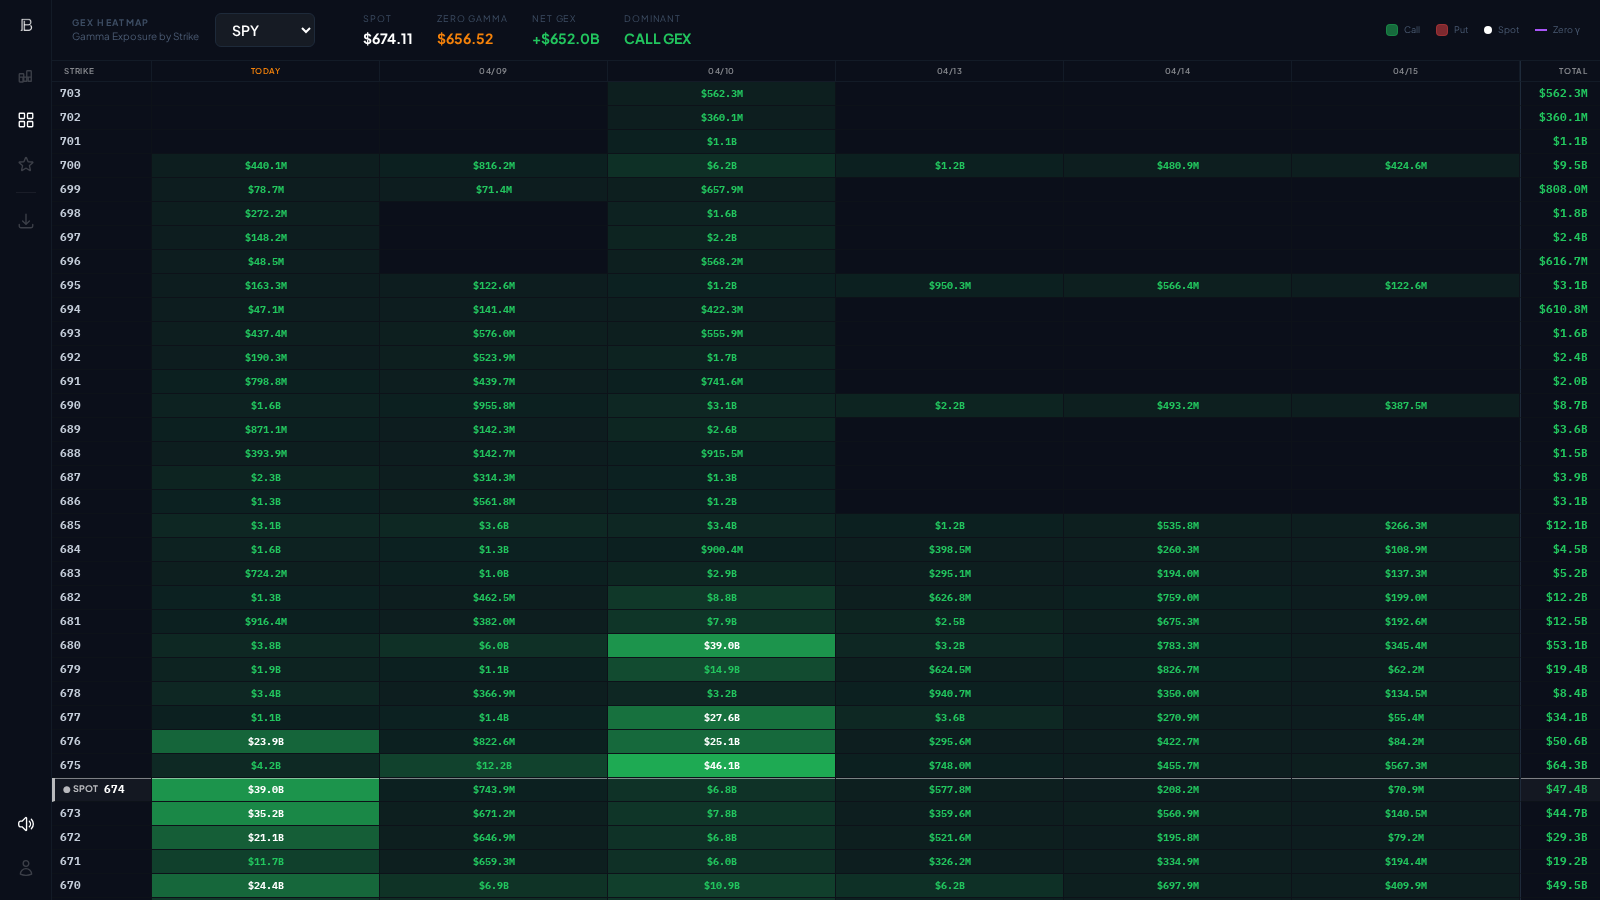
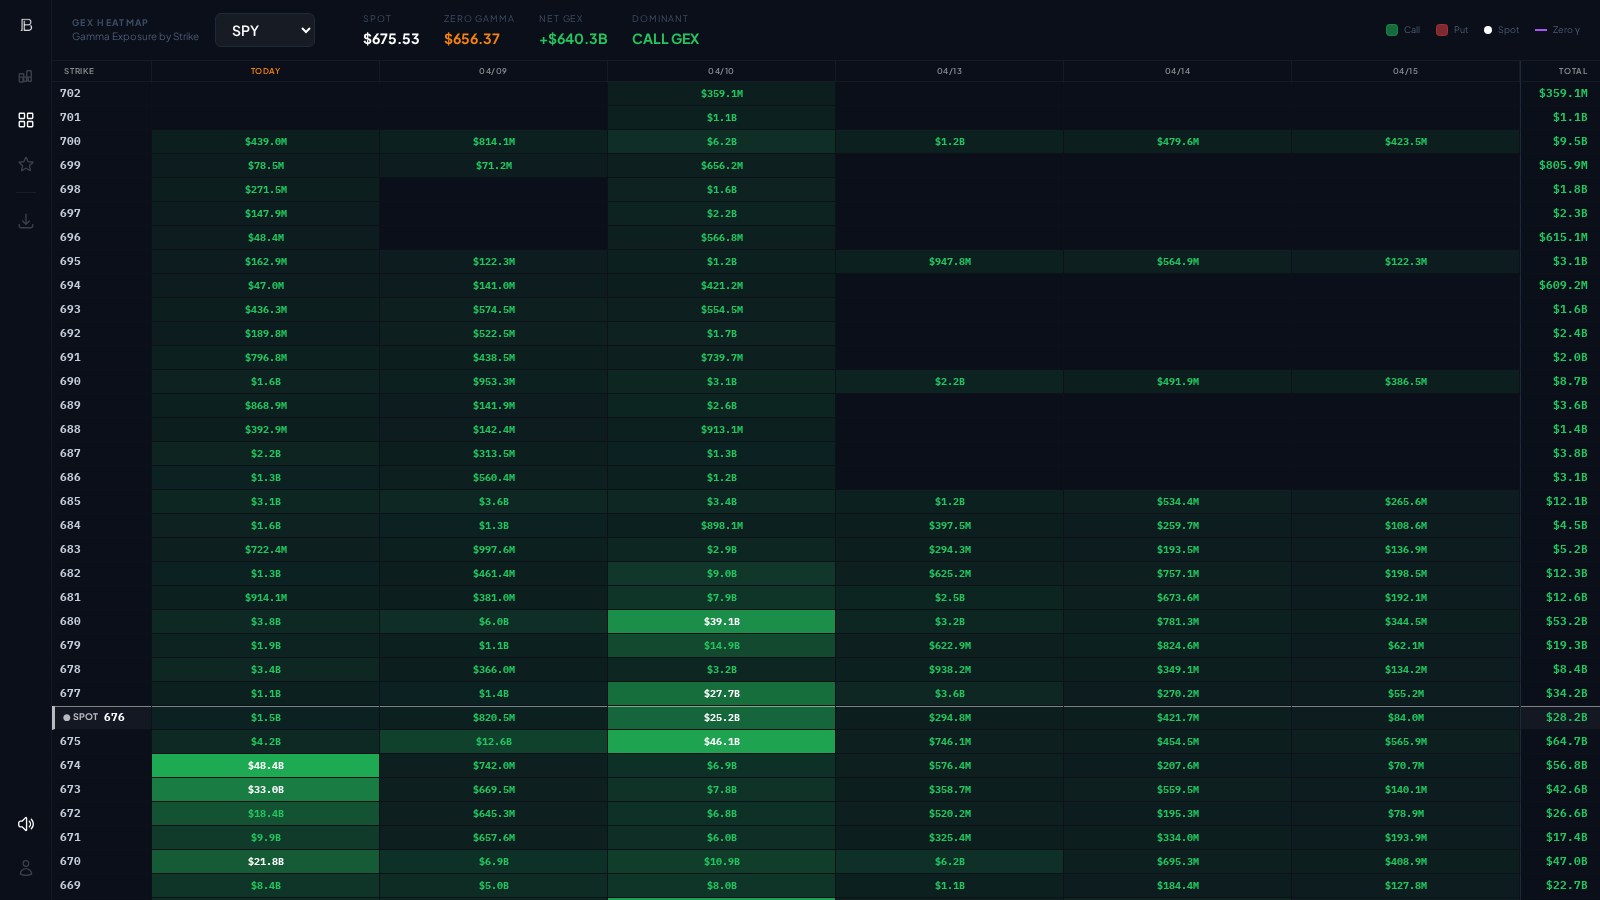
v7.9.0: Scanner cleanup — hide MM rows, fix hover conflicts, narrow No-Index filter
- MM-suspected trades hidden entirely (not rendered) instead of dimmed at opacity 0.35
- MM pill removed from CONDS badges, Exclude MM filter toggle removed
- Row hover bg-white/[0.04] now conditional — skipped when row has inline backgroundColor
  so whale/block/accum/sweep highlight colors are preserved on hover
- No-Index filter changed from sector-based (INDEX+ETF) to explicit symbol list
  (SPX, SPXW, NDXP, NDX, RUT, RUTW) — SPY, QQQ, VIX, IWM now visible with filter on
- BorderBeam removed from Hero scanner image — eliminates orange glow artifact
- Fresh scanner-hero.png screenshot with Grade A + $1M+ filters applied

diff --git a/src/app/scanner/page.tsx b/src/app/scanner/page.tsx
@@ -90,27 +90,53 @@ function isMarketOpen() {
   return mins >= 570 && mins < 960 // 9:30 - 16:00
 }
 
-/* ── pill base: text-[10px] font-semibold tracking-wide uppercase border rounded-sm px-1.5 py-0.5 ── */
+/* ── pill base ── */
 const PILL = "inline-flex items-center px-1.5 py-0.5 rounded-sm text-[10px] font-semibold tracking-wide uppercase border"
+
+/* ── row highlight (inline styles — Tailwind JIT can't handle dynamic rgba) ── */
+function getRowStyle(t: Trade): React.CSSProperties {
+  if (t.whale) return { backgroundColor: "rgba(245,158,11,0.10)", borderLeft: "3px solid #f59e0b" }
+  if (t.flow_type === "BLOCK" && t.premium >= 1000000) return { backgroundColor: "rgba(96,165,250,0.08)", borderLeft: "3px solid #60a5fa" }
+  if ((t.vol_oi ?? 0) >= 2.0 && t.accum_hits > 0) return { backgroundColor: "rgba(168,85,247,0.08)", borderLeft: "2px solid rgba(168,85,247,0.6)" }
+  if ((t.vol_oi ?? 0) >= 1.0 && t.flow_type === "SWEEP") return { backgroundColor: "rgba(234,179,8,0.07)", borderLeft: "2px solid rgba(234,179,8,0.55)" }
+  if ((t.dte ?? 99) <= 7 && t.flow_type === "SWEEP" && t.position_action === "OPENING" && (t.aggression === "ABOVE_ASK" || t.aggression === "AT_ASK")) return { backgroundColor: "rgba(234,179,8,0.04)", borderLeft: "2px solid rgba(234,179,8,0.4)" }
+  if (t.accum_hits >= 2) return { borderLeft: "2px solid rgba(96,165,250,0.3)" }
+  if (t.grade === "A") return { borderLeft: "1px solid rgba(249,115,22,0.4)" }
+  if (t.flow_type === "SWEEP") return { borderLeft: "1px solid rgba(234,179,8,0.15)" }
+  return {}
+}
+
+/* ── BBS-style alert type ── */
+function getAlertType(t: Trade): { label: string; color: string } | null {
+  if ((t.dte ?? 99) <= 7 && t.flow_type === "SWEEP" && t.position_action === "OPENING" && (t.aggression === "ABOVE_ASK" || t.aggression === "AT_ASK")) return { label: "ROULETTE", color: "#ef4444" }
+  if (t.accum_hits >= 5 && t.position_action === "OPENING") return { label: "SWIFT", color: "#f97316" }
+  if (t.accum_hits >= 3 && t.position_action === "OPENING") return { label: "STEADY", color: "#f97316" }
+  if (t.accum_hits >= 2) return { label: "RAPID", color: "#a855f7" }
+  if ((t.vol_oi ?? 0) >= 1.0 && (t.aggression === "AT_ASK" || t.aggression === "ABOVE_ASK")) return { label: "LARGE", color: "#eab308" }
+  if (t.accum_hits === 1) return { label: "REPEAT", color: "#60a5fa" }
+  return null
+}
 
 function condBadges(t: Trade): { label: string; cls: string }[] {
   const pills: { label: string; cls: string }[] = []
 
-  // PILL 1 — Flow type (always)
+  // PILL 1 — Alert type (BBS-style) OR flow type
+  const alert = getAlertType(t)
+  if (alert) {
+    pills.push({ label: alert.label, cls: PILL })  // styled via inline style in render
+  }
+
+  // PILL 2 — Flow type
   if (t.flow_type === "SWEEP") pills.push({ label: "SWEEP", cls: `${PILL} bg-[#eab308]/15 text-[#eab308] border-[#eab308]/40` })
   else if (t.premium >= 1000000 && t.flow_type === "BLOCK") pills.push({ label: "BLOCK 1M+", cls: `${PILL} bg-[#60a5fa]/25 text-[#60a5fa] border-[#60a5fa]/60 font-bold` })
   else if (t.flow_type === "BLOCK") pills.push({ label: "BLOCK", cls: `${PILL} bg-[#60a5fa]/15 text-[#60a5fa] border-[#60a5fa]/40` })
 
-  // PILL 2 — Signal flag (highest priority one)
-  if (t.whale) pills.push({ label: "WHALE", cls: `${PILL} bg-[#f59e0b]/15 text-[#f59e0b] border-[#f59e0b]/40` })
-  else if (t.mm_suspected) pills.push({ label: "MM FILTER", cls: `${PILL} bg-white/[0.08] text-white/40 border-white/15` })
-  else if (t.high_conviction) pills.push({ label: "HIGH CONV", cls: `${PILL} bg-[#f97316]/15 text-[#f97316] border-[#f97316]/40` })
+  // PILL 3 — Signal context (one of: EVENT, WHALE, MM, ACCUM, structure, position)
+  if (t.is_event_driven) pills.push({ label: "EVENT", cls: `${PILL} bg-[#f97316]/[0.18] text-[#f97316] border-[#f97316]/40` })
+  else if (t.whale) pills.push({ label: "WHALE", cls: `${PILL} bg-[#f59e0b]/15 text-[#f59e0b] border-[#f59e0b]/40` })
   else if (t.accum_hits > 0) pills.push({ label: `ACCUM ${t.accum_hits}x`, cls: `${PILL} bg-[#a855f7]/15 text-[#a855f7] border-[#a855f7]/40` })
   else if ((t.vol_oi ?? 0) >= 2.0) pills.push({ label: "HIGH V/OI", cls: `${PILL} bg-[#22d3ee]/15 text-[#22d3ee] border-[#22d3ee]/40` })
-  else if ((t.adv_multiple ?? 0) >= 1.0) pills.push({ label: `VOL ${(t.adv_multiple ?? 0).toFixed(1)}x`, cls: `${PILL} bg-[#22d3ee]/15 text-[#22d3ee] border-[#22d3ee]/40` })
-
-  // PILL 3 — Position / structure
-  if (t.structure && t.structure !== "SINGLE_LEG" && (t.structure_confidence ?? 0) >= 0.5) {
+  else if (t.structure && t.structure !== "SINGLE_LEG" && (t.structure_confidence ?? 0) >= 0.5) {
     const label = t.structure.replace(/_/g, " ").replace("VERTICAL SPREAD", "SPREAD").replace("CALENDAR SPREAD", "CALENDAR").replace("DIAGONAL SPREAD", "DIAGONAL")
     pills.push({ label, cls: `${PILL} bg-white/[0.08] text-white/50 border-white/15` })
   } else if (t.position_action === "OPENING") pills.push({ label: "OPENING", cls: `${PILL} bg-white/[0.05] text-white/35 border-transparent` })
@@ -126,16 +152,28 @@ function fmtExpiry(exp: string) {
 }
 
 function aggrColor(a: string | null | undefined) {
-  if (!a) return "text-white/50"
+  if (!a || a === "NEUTRAL") return "text-white/30"
   if (a === "ABOVE_ASK" || a === "AT_ASK") return "text-[#22c55e]"
   if (a === "BELOW_BID" || a === "AT_BID") return "text-[#ef4444]"
   return "text-white/50"
 }
 
 function aggrLabel(a: string | null | undefined) {
-  if (!a) return "—"
-  const map: Record<string, string> = { ABOVE_ASK: "Above", AT_ASK: "Ask", AT_BID: "Bid", BELOW_BID: "Below", NEUTRAL: "Mid" }
+  if (!a || a === "NEUTRAL") return "—"
+  const map: Record<string, string> = { ABOVE_ASK: "Above", AT_ASK: "Ask", AT_BID: "Bid", BELOW_BID: "Below" }
   return map[a] || a
+}
+
+function bsColor(d: string | null | undefined) {
+  if (!d || d === "NEUTRAL") return "text-white/30"
+  if (d === "BUY") return "text-[#22c55e]"
+  if (d === "SELL") return "text-[#ef4444]"
+  return "text-white/50"
+}
+
+function bsLabel(d: string | null | undefined) {
+  if (!d || d === "NEUTRAL") return "—"
+  return d
 }
 
 /* ── time ranges (moved to filter panel) ── */
@@ -198,7 +236,6 @@ export default function ScannerPage() {
   const [filterDte, setFilterDte] = useState("")
   const [filterSide, setFilterSide] = useState("")
   const [filterUnusualOnly, setFilterUnusualOnly] = useState(false)
-  const [filterExcludeMM, setFilterExcludeMM] = useState(false)
   const [filterNoIndex, setFilterNoIndex] = useState(false)
   const [activeFilterCount, setActiveFilterCount] = useState(0)
   const [focusTicker, setFocusTicker] = useState<string | null>(null)
@@ -350,10 +387,9 @@ export default function ScannerPage() {
     if (filterDte) c++
     if (filterSide) c++
     if (filterUnusualOnly) c++
-    if (filterExcludeMM) c++
     if (filterNoIndex) c++
     setActiveFilterCount(c)
-  }, [timeRange, filterGrade, filterType, filterOptType, filterMinPremium, filterDte, filterSide, filterUnusualOnly, filterExcludeMM, filterNoIndex])
+  }, [timeRange, filterGrade, filterType, filterOptType, filterMinPremium, filterDte, filterSide, filterUnusualOnly, filterNoIndex])
 
   const filtered = useMemo(() => trades.filter(t => {
     if (search && !t.symbol.toLowerCase().includes(search.toLowerCase())) return false
@@ -365,14 +401,13 @@ export default function ScannerPage() {
     if (filterOptType && t.opt_type !== filterOptType) return false
     if (filterSide && t.aggression !== filterSide) return false
     if (filterUnusualOnly && (t.vol_oi ?? 0) < 5) return false
-    if (filterExcludeMM && t.mm_suspected) return false
-    if (filterNoIndex && (t.sector === "INDEX" || t.sector === "ETF")) return false
+    if (filterNoIndex && ["SPX","SPXW","NDXP","NDX","RUT","RUTW"].includes(t.symbol)) return false
     if (filterDte === "0dte" && (t.dte ?? -1) !== 0) return false
     if (filterDte === "1-7" && ((t.dte ?? -1) < 1 || (t.dte ?? -1) > 7)) return false
     if (filterDte === "8-30" && ((t.dte ?? -1) < 8 || (t.dte ?? -1) > 30)) return false
     if (filterDte === "30+" && (t.dte ?? -1) < 30) return false
     return true
-  }), [trades, search, focusTicker, focusStrike, focusExpiry, filterGrade, filterType, filterOptType, filterSide, filterUnusualOnly, filterExcludeMM, filterNoIndex, filterDte])
+  }), [trades, search, focusTicker, focusStrike, focusExpiry, filterGrade, filterType, filterOptType, filterSide, filterUnusualOnly, filterNoIndex, filterDte])
 
   const calls = filtered.filter(t => t.opt_type === "C")
   const puts = filtered.filter(t => t.opt_type === "P")
@@ -391,7 +426,7 @@ export default function ScannerPage() {
     rowVirtualizer.measure()
   }, [filtered, rowVirtualizer])
 
-  const hasLocalFilter = !!(search || focusTicker || filterGrade || filterType || filterOptType || filterSide || filterUnusualOnly || filterExcludeMM || filterNoIndex || filterDte)
+  const hasLocalFilter = !!(search || focusTicker || filterGrade || filterType || filterOptType || filterSide || filterUnusualOnly || filterNoIndex || filterDte)
   const displayStats = hasLocalFilter ? (() => {
     const bull = filtered.filter(t => t.bullish).reduce((s, t) => s + t.premium, 0)
     const bear = filtered.filter(t => !t.bullish).reduce((s, t) => s + t.premium, 0)
@@ -828,24 +863,17 @@ export default function ScannerPage() {
             }}>
               {rowVirtualizer.getVirtualItems().map(vRow => {
                 const t = filtered[vRow.index]
-                if (!t) return null
+                if (!t || t.mm_suspected) return null
                 const badges = condBadges(t)
                 const isNew = newTradeIds.has(t.id)
-                const isBlock1M = t.flow_type === "BLOCK" && t.premium >= 1000000
-                const isWhale = t.whale
-                const isSweep = t.flow_type === "SWEEP"
-                // Row bg: ONLY block1M (blue) or whale (amber) get tint. Everything else = plain dark.
-                const rowCls = isNew ? "bg-[#60a5fa]/10"
-                  : isBlock1M ? "bg-[#60a5fa]/[0.08]" : isWhale ? "bg-[#f59e0b]/[0.08]" : ""
-                const borderCls = isBlock1M ? "border-l-[3px] border-l-[#60a5fa]"
-                  : isWhale ? "border-l-[3px] border-l-[#f59e0b]"
-                  : isSweep ? "border-l-2 border-l-[#eab308]/50" : ""
+                const rowStyle = isNew ? { backgroundColor: "rgba(96,165,250,0.10)" } : getRowStyle(t)
                 return (
                   <tr
                     key={vRow.key}
                     data-index={vRow.index}
                     ref={rowVirtualizer.measureElement}
-                    className={`border-b border-[#1E2A3A] hover:bg-white/[0.04] transition-colors ${rowCls} ${borderCls} ${t.mm_suspected ? "opacity-50" : ""}`}
+                    className={`border-b border-[#1E2A3A] transition-colors ${rowStyle.backgroundColor ? '' : 'hover:bg-white/[0.04]'}`}
+                    style={rowStyle}
                   >
                     <td className="px-3 py-2 text-white/50 text-xs whitespace-nowrap">{t.time ?? t.date_time?.slice(11, 16) ?? "—"}</td>
                     <td className="px-2 py-2">
@@ -873,10 +901,8 @@ export default function ScannerPage() {
                     <td className={`px-2 py-2 text-center text-xs ${aggrColor(t.aggression)}`}>
                       {aggrLabel(t.aggression)}
                     </td>
-                    <td className={`px-2 py-2 text-center text-xs font-medium ${
-                      t.trade_direction === "BUY" ? "text-[#22c55e]" : t.trade_direction === "SELL" ? "text-[#ef4444]" : "text-white/40"
-                    }`}>
-                      {t.trade_direction || "—"}
+                    <td className={`px-2 py-2 text-center text-xs font-medium ${bsColor(t.trade_direction)}`}>
+                      {bsLabel(t.trade_direction)}
                     </td>
                     <td className="px-2 py-2 text-right text-white/60 text-xs font-mono">{t.spot_fmt}</td>
                     <td className="px-2 py-2 text-right text-white/60 text-xs">{(t.contracts ?? 0).toLocaleString()}</td>
@@ -899,9 +925,14 @@ export default function ScannerPage() {
                     </td>
                     <td className="px-2 py-2">
                       <div className="flex flex-wrap gap-1">
-                        {badges.map((b, i) => (
-                          <span key={i} className={`whitespace-nowrap ${b.cls}`}>{b.label}</span>
-                        ))}
+                        {badges.map((b, i) => {
+                          const alert = i === 0 ? getAlertType(t) : null
+                          return alert && b.label === alert.label ? (
+                            <span key={i} className={`whitespace-nowrap ${PILL} font-bold`} style={{ color: alert.color, borderColor: alert.color + "40", backgroundColor: alert.color + "18" }}>{alert.label}</span>
+                          ) : (
+                            <span key={i} className={`whitespace-nowrap ${b.cls}`}>{b.label}</span>
+                          )
+                        })}
                       </div>
                     </td>
                   </tr>
@@ -941,7 +972,7 @@ export default function ScannerPage() {
             <div className="flex items-center justify-between p-4 border-b border-[#252E3D]">
               <span className="text-white font-semibold text-sm">Filters</span>
               <div className="flex items-center gap-3">
-                <button onClick={() => { setTimeRange("today"); setPage(0); setFilterGrade(""); setFilterType(""); setFilterOptType(""); setFilterMinPremium(0); setFilterDte(""); setFilterSide(""); setFilterUnusualOnly(false); setFilterExcludeMM(false); setFilterNoIndex(false) }} className="text-white/40 hover:text-white text-xs">Reset all</button>
+                <button onClick={() => { setTimeRange("today"); setPage(0); setFilterGrade(""); setFilterType(""); setFilterOptType(""); setFilterMinPremium(0); setFilterDte(""); setFilterSide(""); setFilterUnusualOnly(false); setFilterNoIndex(false) }} className="text-white/40 hover:text-white text-xs">Reset all</button>
                 <button onClick={() => setShowFilters(false)} className="text-white/40 hover:text-white text-lg leading-none">&times;</button>
               </div>
             </div>
@@ -1041,22 +1072,11 @@ export default function ScannerPage() {
                   <div className={`absolute top-1 w-4 h-4 bg-white rounded-full transition-all ${filterUnusualOnly ? "left-5" : "left-1"}`} />
                 </button>
               </div>
-              {/* 8. Exclude MM */}
-              <div className="flex items-center justify-between py-2 border-t border-[#252E3D]">
-                <div>
-                  <div className="text-white text-sm font-medium">Exclude MM</div>
-                  <div className="text-white/35 text-xs">Hide market maker activity</div>
-                </div>
-                <button onClick={() => setFilterExcludeMM(!filterExcludeMM)}
-                  className={`w-10 h-6 rounded-full transition-colors relative ${filterExcludeMM ? "bg-[#60a5fa]" : "bg-[#252E3D]"}`}>
-                  <div className={`absolute top-1 w-4 h-4 bg-white rounded-full transition-all ${filterExcludeMM ? "left-5" : "left-1"}`} />
-                </button>
-              </div>
               {/* 9. No Index */}
               <div className="flex items-center justify-between py-2 border-t border-[#252E3D]">
                 <div>
                   <div className="text-white text-sm font-medium">No Index</div>
-                  <div className="text-white/35 text-xs">Hide SPX, NDX, index &amp; ETF flow</div>
+                  <div className="text-white/35 text-xs">Hide SPX, SPXW, NDX, NDXP, RUT, RUTW</div>
                 </div>
                 <button onClick={() => setFilterNoIndex(!filterNoIndex)}
                   className={`w-10 h-6 rounded-full transition-colors relative ${filterNoIndex ? "bg-[#F5820A]" : "bg-[#252E3D]"}`}>

diff --git a/src/components/Hero.tsx b/src/components/Hero.tsx
@@ -3,7 +3,6 @@
 import Image from "next/image"
 import { DotPattern } from "@/components/magicui/dot-pattern"
 import { ShimmerButton } from "@/components/magicui/ShimmerButton"
-import { BorderBeam } from "@/components/magicui/BorderBeam"
 import { BlurFade } from "@/components/magicui/BlurFade"
 
 export default function Hero() {
@@ -111,7 +110,7 @@ export default function Hero() {
         </BlurFade>
 
         {/* Scanner mockup — responsive */}
-        <BorderBeam className="mt-12 mx-auto">
+        <div className="mt-12 mx-auto">
           {/* Mobile — show cropped left portion of scanner */}
           <div className="block md:hidden overflow-hidden rounded-xl border border-white/10 shadow-[0_20px_60px_rgba(0,0,0,0.6)]">
             <div style={{position: 'relative', paddingBottom: '75%', overflow: 'hidden'}}>
@@ -135,7 +134,7 @@ export default function Hero() {
               className="w-full h-auto"
             />
           </div>
-        </BorderBeam>
+        </div>
 
       </div>
     </section>